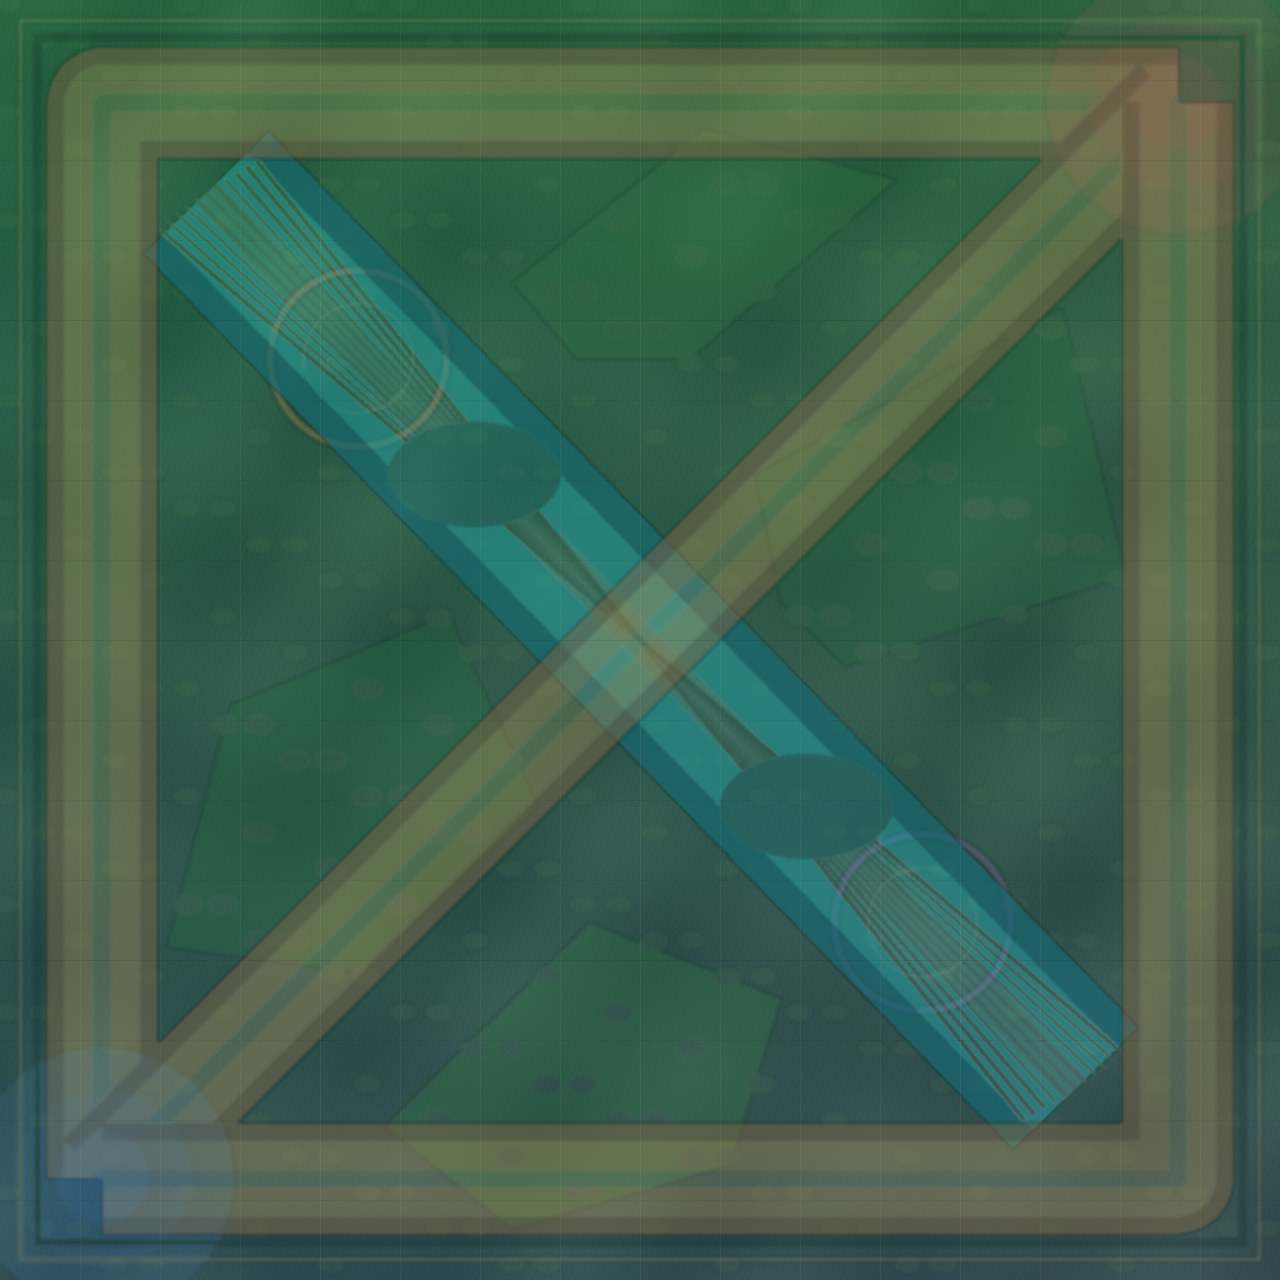
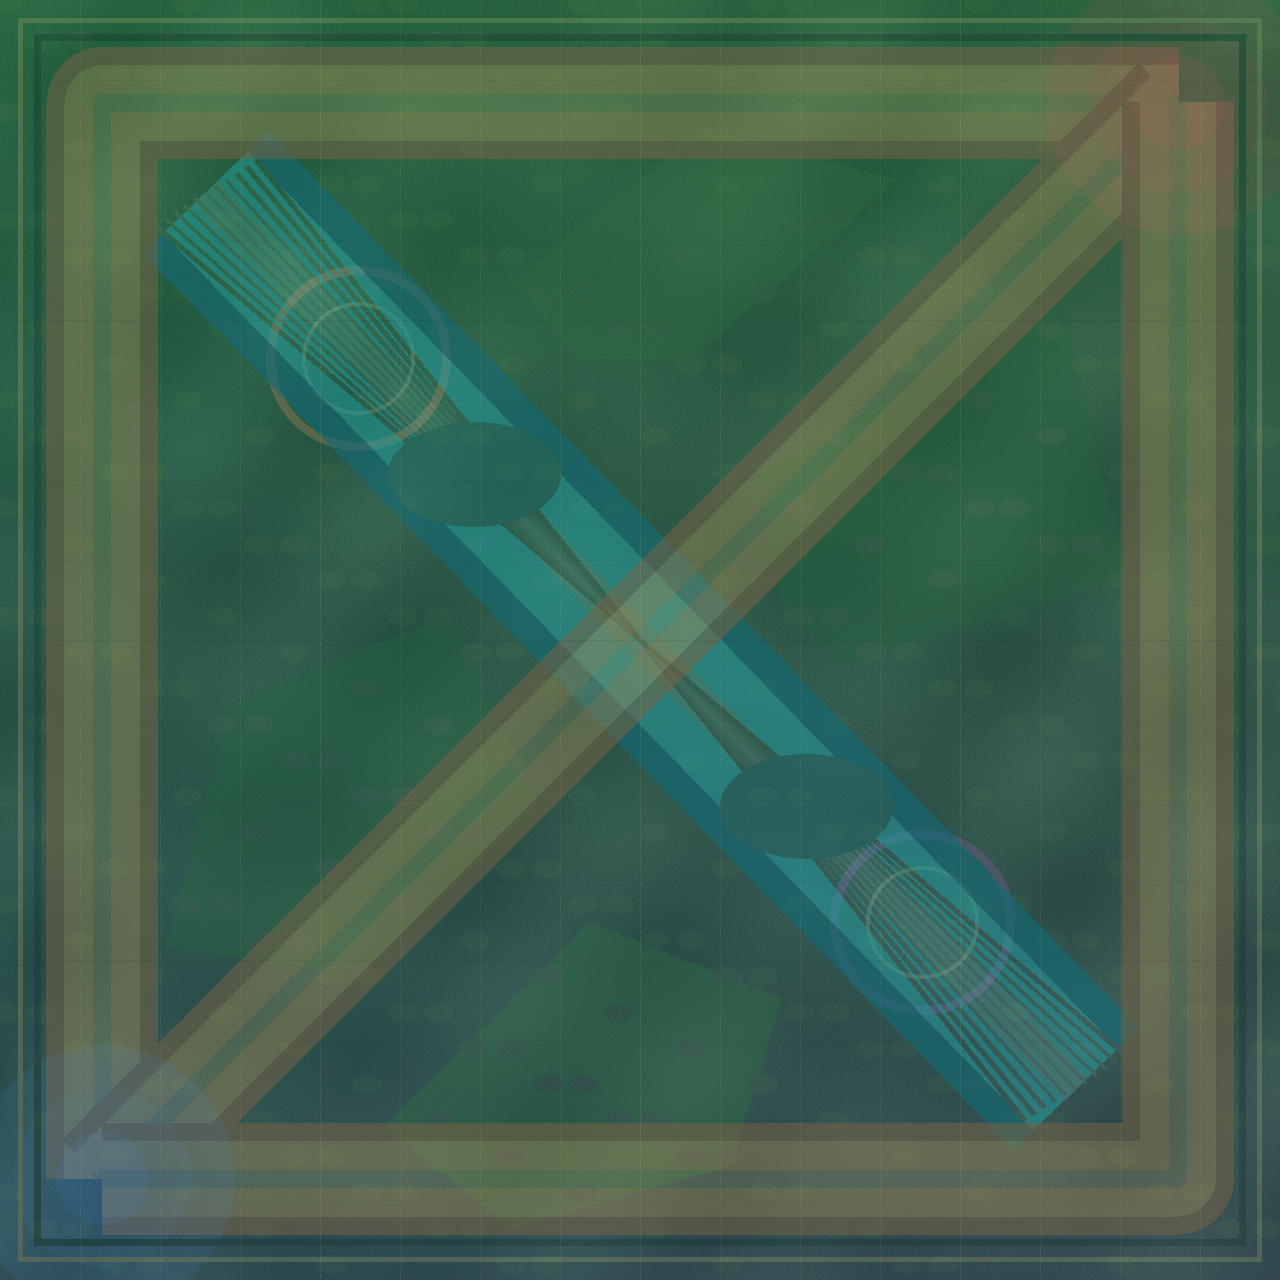
Make visual skin asset deterministic

Changed region(s): [[0.2188, 0.3125, 0.25, 0.3438]]

diff --git a/tools/build_runtime_spike_assets.py b/tools/build_runtime_spike_assets.py
@@ -1,10 +1,13 @@
 from __future__ import annotations
 
 import argparse
+import binascii
 import math
+import struct
+import zlib
 from pathlib import Path
 
-from PIL import Image, ImageDraw, ImageFilter
+from PIL import Image, ImageDraw
 
 
 REPO_ROOT = Path(__file__).resolve().parents[1]
@@ -23,9 +26,30 @@ def npoint(x: float, y: float, size: int) -> tuple[int, int]:
     return int(round(x / 100 * size)), int(round(y / 100 * size))
 
 
-def add_layer(base: Image.Image, layer: Image.Image, blur: float = 0.0) -> None:
-    if blur:
-        layer = layer.filter(ImageFilter.GaussianBlur(blur))
+def png_chunk(chunk_type: bytes, payload: bytes) -> bytes:
+    checksum = binascii.crc32(chunk_type)
+    checksum = binascii.crc32(payload, checksum) & 0xFFFFFFFF
+    return struct.pack(">I", len(payload)) + chunk_type + payload + struct.pack(">I", checksum)
+
+
+def png_bytes(image: Image.Image) -> bytes:
+    rgba = image.convert("RGBA")
+    width, height = rgba.size
+    raw_pixels = rgba.tobytes()
+    stride = width * 4
+    raw = b"".join(b"\x00" + raw_pixels[y * stride : (y + 1) * stride] for y in range(height))
+    header = struct.pack(">IIBBBBB", width, height, 8, 6, 0, 0, 0)
+    return b"".join(
+        [
+            b"\x89PNG\r\n\x1a\n",
+            png_chunk(b"IHDR", header),
+            png_chunk(b"IDAT", zlib.compress(raw, level=9)),
+            png_chunk(b"IEND", b""),
+        ]
+    )
+
+
+def add_layer(base: Image.Image, layer: Image.Image) -> None:
     base.alpha_composite(layer)
 
 
@@ -94,7 +118,7 @@ def draw_lanes(image: Image.Image, size: int) -> None:
         draw_polyline(lane_layer, lane, size, 112, lane_outer)
         draw_polyline(lane_layer, lane, size, 76, lane_inner)
         draw_polyline(lane_layer, lane, size, 18, lane_highlight)
-    add_layer(image, lane_layer, 1.6)
+    add_layer(image, lane_layer)
 
 
 def draw_river(image: Image.Image, size: int) -> None:
@@ -115,7 +139,7 @@ def draw_river(image: Image.Image, size: int) -> None:
     for center in ((37, 37), (63, 63)):
         cx, cy = npoint(center[0], center[1], size)
         draw.ellipse((cx - 86, cy - 52, cx + 86, cy + 52), fill=(25, 131, 144, 68))
-    add_layer(image, river, 1.2)
+    add_layer(image, river)
 
 
 def draw_jungle_and_objectives(image: Image.Image, size: int) -> None:
@@ -136,7 +160,7 @@ def draw_jungle_and_objectives(image: Image.Image, size: int) -> None:
     for center, tint in [((28, 28), (149, 120, 82, 118)), ((72, 72), (112, 92, 146, 105))]:
         draw_ring(layer, center, size, 92, tint, 9)
         draw_ring(layer, center, size, 56, (219, 202, 146, 48), 4)
-    add_layer(image, layer, 1.8)
+    add_layer(image, layer)
 
 
 def draw_bases_and_frame(image: Image.Image, size: int) -> None:
@@ -149,7 +173,7 @@ def draw_bases_and_frame(image: Image.Image, size: int) -> None:
             draw.ellipse((cx - radius, cy - radius, cx + radius, cy + radius), fill=fill)
     draw.rectangle((18, 18, size - 19, size - 19), outline=(215, 195, 132, 52), width=5)
     draw.rectangle((34, 34, size - 35, size - 35), outline=(17, 48, 45, 82), width=7)
-    add_layer(image, layer, 2.0)
+    add_layer(image, layer)
 
 
 def draw_subtle_tilework(image: Image.Image, size: int) -> None:
@@ -161,7 +185,7 @@ def draw_subtle_tilework(image: Image.Image, size: int) -> None:
         pos = index * step
         draw.line((pos, 0, pos, size), fill=(227, 215, 155, alpha), width=1)
         draw.line((0, pos, size, pos), fill=(4, 25, 25, alpha), width=1)
-    add_layer(image, layer, 0.0)
+    add_layer(image, layer)
 
 
 def build_lol_like_background(size: int = 1280) -> Image.Image:
@@ -183,7 +207,7 @@ def main() -> int:
     if args.size <= 0:
         raise SystemExit("--size must be positive.")
     args.output.parent.mkdir(parents=True, exist_ok=True)
-    build_lol_like_background(args.size).save(args.output)
+    args.output.write_bytes(png_bytes(build_lol_like_background(args.size)))
     print(f"Wrote {args.output}")
     return 0
 

diff --git a/docs/runtime_map_loading_spike.md b/docs/runtime_map_loading_spike.md
@@ -1388,7 +1388,7 @@ The generated background skin is:
 ```text
 mods/tfm2_lol_map_spike/aseprite_resources/ingame/5v5/background_5v5.png
 size: 1280x1280
-sha256: 592925d953a09b262a20ded1c4abcbfde0450a5b27525cb178ec52c793f787dc
+sha256: 53524fcd452ffe606a166e6bf6108c81f56069d9f190597a26f941ea1a3fa21a
 ```
 
 Still not enabled:

diff --git a/docs/visual_only_lol_map_skin.md b/docs/visual_only_lol_map_skin.md
@@ -22,7 +22,7 @@ The skin is generated deterministically at native size:
 ```text
 background_5v5.png
 size: 1280x1280
-sha256: 592925d953a09b262a20ded1c4abcbfde0450a5b27525cb178ec52c793f787dc
+sha256: 53524fcd452ffe606a166e6bf6108c81f56069d9f190597a26f941ea1a3fa21a
 ```
 
 ## Design Intent